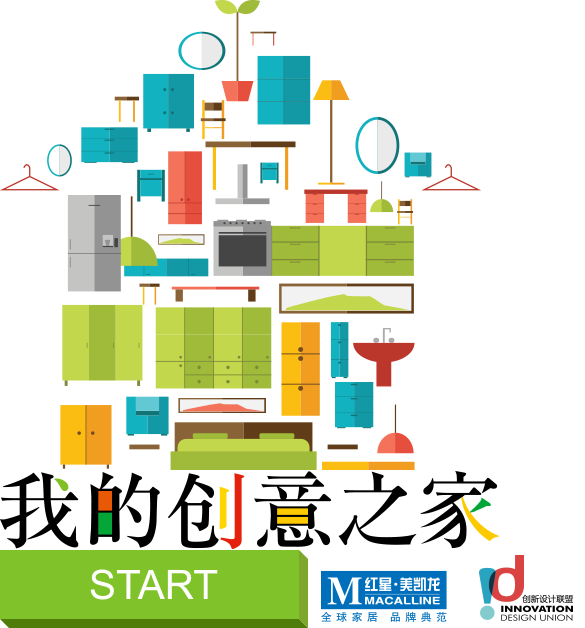
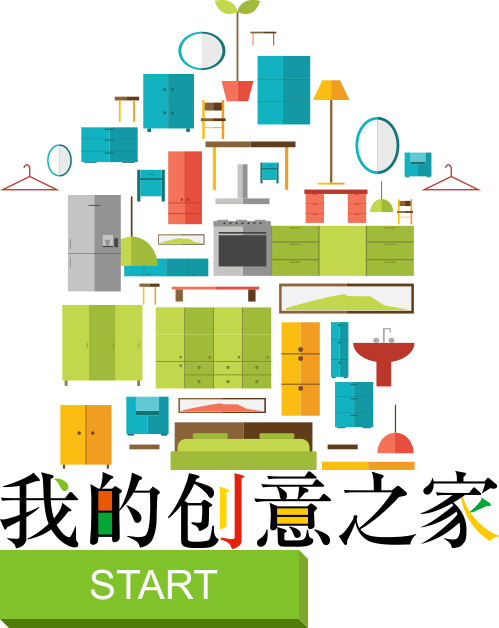
edit

diff --git a/src/ui/layaUI.max.all.js b/src/ui/layaUI.max.all.js
@@ -61,7 +61,7 @@ var startPageUI=(function(_super){
 
 		}
 
-		startPageUI.uiView={"type":"View","props":{"width":750,"height":1334},"child":[{"type":"Image","props":{"y":0,"x":-100,"width":950,"skin":"home/0-home/bg.png"}},{"type":"Image","props":{"y":48,"x":429,"skin":"home/0-home/logo.png"}},{"type":"Image","props":{"y":191,"x":125,"skin":"home/0-home/tle.png"}},{"type":"Image","props":{"y":377,"x":134,"skin":"home/0-home/img.png"}},{"type":"Image","props":{"y":916,"x":0,"skin":"home/0-home/font.png"}},{"type":"Label","props":{"y":1209,"x":295,"width":160,"var":"percent","text":"内容加载中","height":25,"fontSize":16,"color":"#848e8e","align":"center"}},{"type":"Button","props":{"y":1190,"x":221,"var":"start","stateNum":1,"skin":"home/0-home/btn_but.png"}}]};
+		startPageUI.uiView={"type":"View","props":{"width":750,"height":1334},"child":[{"type":"Image","props":{"y":0,"x":-100,"width":950,"skin":"home/0-home/bg.png"}},{"type":"Image","props":{"y":48,"x":75,"skin":"home/0-home/logo.png"}},{"type":"Image","props":{"y":191,"x":125,"skin":"home/0-home/tle.png"}},{"type":"Image","props":{"y":377,"x":134,"skin":"home/0-home/img.png"}},{"type":"Image","props":{"y":916,"x":0,"skin":"home/0-home/font.png"}},{"type":"Label","props":{"y":1209,"x":295,"width":160,"var":"percent","text":"内容加载中","height":25,"fontSize":16,"color":"#848e8e","align":"center"}},{"type":"Button","props":{"y":1190,"x":221,"var":"start","stateNum":1,"skin":"home/0-home/btn_but.png"}}]};
 		return startPageUI;
 	})(View);
 var tabSelectUI=(function(_super){
@@ -88,6 +88,6 @@ var tabSelectUI=(function(_super){
 
 		}
 
-		tabSelectUI.uiView={"type":"View","props":{"y":0,"x":0,"width":950,"height":468},"child":[{"type":"Tab","props":{"y":0,"x":0,"width":950,"var":"tab","selectedIndex":0,"height":70},"child":[{"type":"Button","props":{"x":0,"width":191,"stateNum":2,"skin":"home/0-tab/btn_tap0.png","name":"item0","height":71}},{"type":"Button","props":{"x":190,"width":191,"stateNum":2,"skin":"home/0-tab/btn_tap1.png","name":"item1","height":71}},{"type":"Button","props":{"x":380,"width":191,"stateNum":2,"skin":"home/0-tab/btn_tap2.png","name":"item2","height":71}},{"type":"Button","props":{"x":569,"width":191,"stateNum":2,"skin":"home/0-tab/btn_tap3.png","name":"item3","height":71}},{"type":"Button","props":{"x":759,"width":191,"stateNum":2,"skin":"home/0-tab/btn_tap4.png","name":"item4","height":71}}]},{"type":"Image","props":{"y":70,"x":0,"width":950,"var":"tabHeader","skin":"home/0-tab/conbg.png","sizeGrid":"100,100,100,100"}},{"type":"ViewStack","props":{"y":70,"x":0,"width":950,"var":"viewStack","height":397},"child":[{"type":"Panel","props":{"width":950,"var":"floor","vScrollBarSkin":"home/vscroll/vscroll.png","name":"item0","height":394},"child":[{"type":"Image","props":{"y":50,"x":150,"skin":"home/1-floor/big_floor_img1.png"}},{"type":"Image","props":{"y":50,"x":408,"skin":"home/1-floor/big_floor_img2.png"}},{"type":"Image","props":{"y":50,"x":665,"skin":"home/1-floor/big_floor_img3.png"}},{"type":"Image","props":{"y":225,"x":150,"skin":"home/1-floor/big_floor_img4.png"}},{"type":"Image","props":{"y":225,"x":408,"skin":"home/1-floor/big_floor_img5.png"}},{"type":"Image","props":{"y":225,"x":665,"skin":"home/1-floor/big_floor_img6.png"}},{"type":"Image","props":{"y":399,"x":150,"skin":"home/1-floor/big_floor_img7.png"}},{"type":"Image","props":{"y":399,"x":408,"skin":"home/1-floor/big_floor_img8.png"}},{"type":"Image","props":{"y":412,"x":681,"skin":"home/1-floor/big_floor_img9.png"}},{"type":"Image","props":{"y":583,"x":148,"skin":"home/1-floor/big_floor_img10.png"}}]},{"type":"Panel","props":{"width":950,"var":"wall","vScrollBarSkin":"home/vscroll/vscroll.png","name":"item1","height":394},"child":[{"type":"Image","props":{"y":51,"x":144,"skin":"home/2-wallpaper/big_wall_img1.png"}},{"type":"Image","props":{"y":51,"x":405,"skin":"home/2-wallpaper/big_wall_img2.png"}},{"type":"Image","props":{"y":51,"x":663,"skin":"home/2-wallpaper/big_wall_img3.png"}},{"type":"Image","props":{"y":230,"x":144,"skin":"home/2-wallpaper/big_wall_img4.png"}},{"type":"Image","props":{"y":230,"x":403,"skin":"home/2-wallpaper/big_wall_img5.png"}},{"type":"Image","props":{"y":230,"x":661,"skin":"home/2-wallpaper/big_wall_img6.png"}},{"type":"Image","props":{"y":391,"x":144,"skin":"home/2-wallpaper/big_wall_img7.png"}},{"type":"Image","props":{"y":394,"x":417,"skin":"home/2-wallpaper/big_wall_img8.png"}}]},{"type":"Panel","props":{"width":950,"var":"sofa","vScrollBarSkin":"home/vscroll/vscroll.png","name":"item2","height":394},"child":[{"type":"Image","props":{"y":56,"x":142,"skin":"home/3-sofa/big_sofa_img1.png"}},{"type":"Image","props":{"y":60,"x":398,"skin":"home/3-sofa/big_sofa_img2.png"}},{"type":"Image","props":{"y":51,"x":659,"skin":"home/3-sofa/big_sofa_img3.png"}},{"type":"Image","props":{"y":239,"x":142,"skin":"home/3-sofa/big_sofa_img4.png"}},{"type":"Image","props":{"y":235,"x":398,"skin":"home/3-sofa/big_sofa_img5.png"}},{"type":"Image","props":{"y":232,"x":659,"skin":"home/3-sofa/big_sofa_img6.png"}},{"type":"Image","props":{"y":404,"x":144,"skin":"home/3-sofa/big_sofa_img7.png"}},{"type":"Image","props":{"y":404,"x":398,"skin":"home/3-sofa/big_sofa_img8.png"}},{"type":"Image","props":{"y":404,"x":659,"skin":"home/3-sofa/big_sofa_img9.png"}}]},{"type":"Panel","props":{"width":950,"var":"cabinet","vScrollBarSkin":"home/vscroll/vscroll.png","name":"item3","height":394},"child":[{"type":"Image","props":{"y":54,"x":145,"skin":"home/4-cabinet/big_sark_img1.png"}},{"type":"Image","props":{"y":51,"x":408,"skin":"home/4-cabinet/big_sark_img2.png"}},{"type":"Image","props":{"y":54,"x":664,"skin":"home/4-cabinet/big_sark_img3.png"}},{"type":"Image","props":{"y":227,"x":145,"skin":"home/4-cabinet/big_sark_img4.png"}},{"type":"Image","props":{"y":227,"x":408,"skin":"home/4-cabinet/big_sark_img5.png"}},{"type":"Image","props":{"y":227,"x":664,"skin":"home/4-cabinet/big_sark_img6.png"}},{"type":"Image","props":{"y":397,"x":145,"skin":"home/4-cabinet/big_sark_img7.png"}},{"type":"Image","props":{"y":397,"x":408,"skin":"home/4-cabinet/big_sark_img8.png"}},{"type":"Image","props":{"y":397,"x":664,"skin":"home/4-cabinet/big_sark_img9.png"}},{"type":"Image","props":{"y":570,"x":145,"skin":"home/4-cabinet/big_sark_img10.png"}},{"type":"Image","props":{"y":570,"x":408,"skin":"home/4-cabinet/big_sark_img11.png"}}]},{"type":"Panel","props":{"width":950,"var":"window","vScrollBarSkin":"home/vscroll/vscroll.png","name":"item4","height":394},"child":[{"type":"Image","props":{"y":51,"x":152,"skin":"home/5-window/big_window_img1.png"}},{"type":"Image","props":{"y":46,"x":413,"skin":"home/5-window/big_window_img2.png"}},{"type":"Image","props":{"y":46,"x":674,"skin":"home/5-window/big_window_img3.png"}},{"type":"Image","props":{"y":220,"x":152,"skin":"home/5-window/big_window_img4.png"}},{"type":"Image","props":{"y":220,"x":413,"skin":"home/5-window/big_window_img5.png"}},{"type":"Image","props":{"y":220,"x":674,"skin":"home/5-window/big_window_img6.png"}},{"type":"Image","props":{"y":386,"x":152,"skin":"home/5-window/big_window_img7.png"}},{"type":"Image","props":{"y":386,"x":413,"skin":"home/5-window/big_window_img8.png"}},{"type":"Image","props":{"y":386,"x":674,"skin":"home/5-window/big_window_img9.png"}},{"type":"Image","props":{"y":536,"x":152,"skin":"home/5-window/big_window_img10.png"}},{"type":"Image","props":{"y":536,"x":413,"skin":"home/5-window/big_window_img11.png"}},{"type":"Image","props":{"y":536,"x":674,"skin":"home/5-window/big_window_img12.png"}}]}]}]};
+		tabSelectUI.uiView={"type":"View","props":{"y":0,"x":0,"width":950,"height":468},"child":[{"type":"Tab","props":{"y":0,"x":0,"width":950,"var":"tab","selectedIndex":0,"height":70},"child":[{"type":"Button","props":{"x":0,"width":191,"stateNum":2,"skin":"home/0-tab/btn_tap0.png","name":"item0","height":71}},{"type":"Button","props":{"x":190,"width":191,"stateNum":2,"skin":"home/0-tab/btn_tap1.png","name":"item1","height":71}},{"type":"Button","props":{"x":380,"width":191,"stateNum":2,"skin":"home/0-tab/btn_tap2.png","name":"item2","height":71}},{"type":"Button","props":{"x":569,"width":191,"stateNum":2,"skin":"home/0-tab/btn_tap3.png","name":"item3","height":71}},{"type":"Button","props":{"x":759,"width":191,"stateNum":2,"skin":"home/0-tab/btn_tap4.png","name":"item4","height":71}}]},{"type":"Image","props":{"y":70,"x":0,"width":950,"var":"tabHeader","skin":"home/0-tab/conbg.png","sizeGrid":"100,100,100,100"}},{"type":"ViewStack","props":{"y":70,"x":0,"width":950,"var":"viewStack","height":397},"child":[{"type":"Panel","props":{"width":950,"var":"floor","vScrollBarSkin":"home/vscroll/vscroll.png","name":"item0","height":394},"child":[{"type":"Image","props":{"y":50,"x":150,"skin":"home/1-floor/big_floor_img1.png"}},{"type":"Image","props":{"y":50,"x":408,"skin":"home/1-floor/big_floor_img2.png"}},{"type":"Image","props":{"y":50,"x":665,"skin":"home/1-floor/big_floor_img3.png"}},{"type":"Image","props":{"y":225,"x":150,"skin":"home/1-floor/big_floor_img4.png"}},{"type":"Image","props":{"y":225,"x":408,"skin":"home/1-floor/big_floor_img5.png"}},{"type":"Image","props":{"y":225,"x":665,"skin":"home/1-floor/big_floor_img6.png"}},{"type":"Image","props":{"y":399,"x":150,"skin":"home/1-floor/big_floor_img7.png"}},{"type":"Image","props":{"y":399,"x":408,"skin":"home/1-floor/big_floor_img8.png"}},{"type":"Image","props":{"y":399,"x":665,"skin":"home/1-floor/big_floor_img9.png"}},{"type":"Image","props":{"y":583,"x":148,"skin":"home/1-floor/big_floor_img10.png"}}]},{"type":"Panel","props":{"width":950,"var":"wall","vScrollBarSkin":"home/vscroll/vscroll.png","name":"item1","height":394},"child":[{"type":"Image","props":{"y":51,"x":144,"skin":"home/2-wallpaper/big_wall_img1.png"}},{"type":"Image","props":{"y":51,"x":405,"skin":"home/2-wallpaper/big_wall_img2.png"}},{"type":"Image","props":{"y":51,"x":663,"skin":"home/2-wallpaper/big_wall_img3.png"}},{"type":"Image","props":{"y":230,"x":144,"skin":"home/2-wallpaper/big_wall_img4.png"}},{"type":"Image","props":{"y":230,"x":405,"skin":"home/2-wallpaper/big_wall_img5.png"}},{"type":"Image","props":{"y":230,"x":661,"skin":"home/2-wallpaper/big_wall_img6.png"}},{"type":"Image","props":{"y":391,"x":144,"skin":"home/2-wallpaper/big_wall_img7.png"}},{"type":"Image","props":{"y":391,"x":405,"skin":"home/2-wallpaper/big_wall_img8.png"}}]},{"type":"Panel","props":{"width":950,"var":"sofa","vScrollBarSkin":"home/vscroll/vscroll.png","name":"item2","height":394},"child":[{"type":"Image","props":{"y":56,"x":142,"skin":"home/3-sofa/big_sofa_img1.png"}},{"type":"Image","props":{"y":60,"x":398,"skin":"home/3-sofa/big_sofa_img2.png"}},{"type":"Image","props":{"y":51,"x":659,"skin":"home/3-sofa/big_sofa_img3.png"}},{"type":"Image","props":{"y":239,"x":142,"skin":"home/3-sofa/big_sofa_img4.png"}},{"type":"Image","props":{"y":235,"x":398,"skin":"home/3-sofa/big_sofa_img5.png"}},{"type":"Image","props":{"y":232,"x":659,"skin":"home/3-sofa/big_sofa_img6.png"}},{"type":"Image","props":{"y":404,"x":144,"skin":"home/3-sofa/big_sofa_img7.png"}},{"type":"Image","props":{"y":404,"x":398,"skin":"home/3-sofa/big_sofa_img8.png"}},{"type":"Image","props":{"y":404,"x":659,"skin":"home/3-sofa/big_sofa_img9.png"}}]},{"type":"Panel","props":{"width":950,"var":"cabinet","vScrollBarSkin":"home/vscroll/vscroll.png","name":"item3","height":394},"child":[{"type":"Image","props":{"y":54,"x":145,"skin":"home/4-cabinet/big_sark_img1.png"}},{"type":"Image","props":{"y":51,"x":408,"skin":"home/4-cabinet/big_sark_img2.png"}},{"type":"Image","props":{"y":54,"x":664,"skin":"home/4-cabinet/big_sark_img3.png"}},{"type":"Image","props":{"y":227,"x":145,"skin":"home/4-cabinet/big_sark_img4.png"}},{"type":"Image","props":{"y":227,"x":408,"skin":"home/4-cabinet/big_sark_img5.png"}},{"type":"Image","props":{"y":227,"x":664,"skin":"home/4-cabinet/big_sark_img6.png"}},{"type":"Image","props":{"y":397,"x":145,"skin":"home/4-cabinet/big_sark_img7.png"}},{"type":"Image","props":{"y":397,"x":408,"skin":"home/4-cabinet/big_sark_img8.png"}},{"type":"Image","props":{"y":397,"x":664,"skin":"home/4-cabinet/big_sark_img9.png"}},{"type":"Image","props":{"y":570,"x":145,"skin":"home/4-cabinet/big_sark_img10.png"}},{"type":"Image","props":{"y":570,"x":408,"skin":"home/4-cabinet/big_sark_img11.png"}}]},{"type":"Panel","props":{"width":950,"var":"window","vScrollBarSkin":"home/vscroll/vscroll.png","name":"item4","height":394},"child":[{"type":"Image","props":{"y":51,"x":152,"skin":"home/5-window/big_window_img1.png"}},{"type":"Image","props":{"y":46,"x":413,"skin":"home/5-window/big_window_img2.png"}},{"type":"Image","props":{"y":46,"x":674,"skin":"home/5-window/big_window_img3.png"}},{"type":"Image","props":{"y":220,"x":152,"skin":"home/5-window/big_window_img4.png"}},{"type":"Image","props":{"y":220,"x":413,"skin":"home/5-window/big_window_img5.png"}},{"type":"Image","props":{"y":220,"x":674,"skin":"home/5-window/big_window_img6.png"}},{"type":"Image","props":{"y":386,"x":152,"skin":"home/5-window/big_window_img7.png"}},{"type":"Image","props":{"y":386,"x":413,"skin":"home/5-window/big_window_img8.png"}},{"type":"Image","props":{"y":386,"x":674,"skin":"home/5-window/big_window_img9.png"}},{"type":"Image","props":{"y":536,"x":152,"skin":"home/5-window/big_window_img10.png"}},{"type":"Image","props":{"y":536,"x":413,"skin":"home/5-window/big_window_img11.png"}},{"type":"Image","props":{"y":536,"x":674,"skin":"home/5-window/big_window_img12.png"}}]}]}]};
 		return tabSelectUI;
 	})(View);
